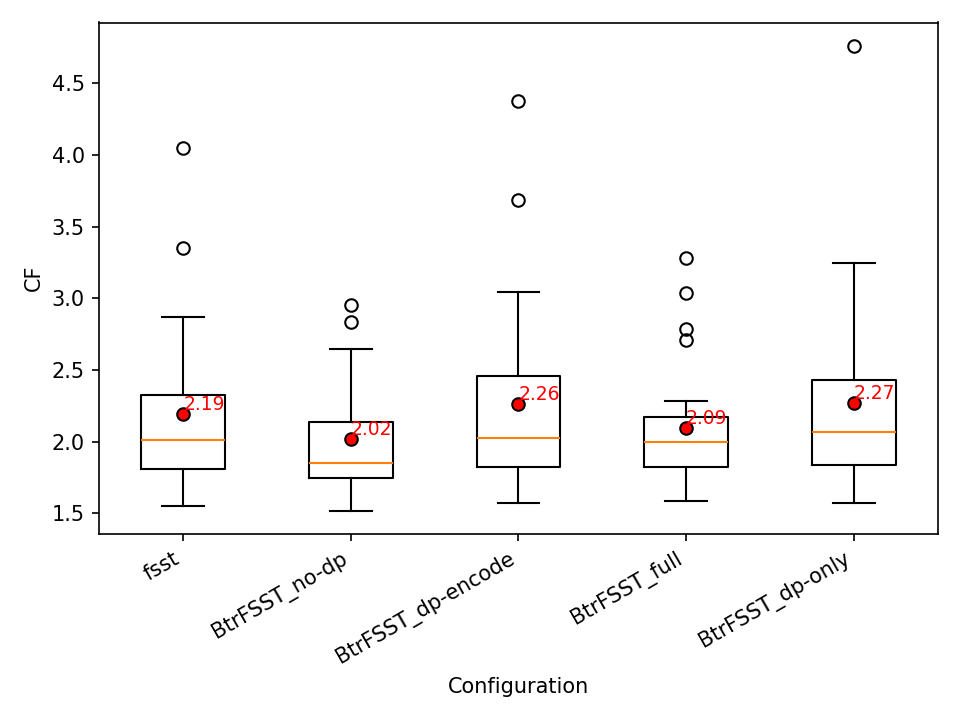
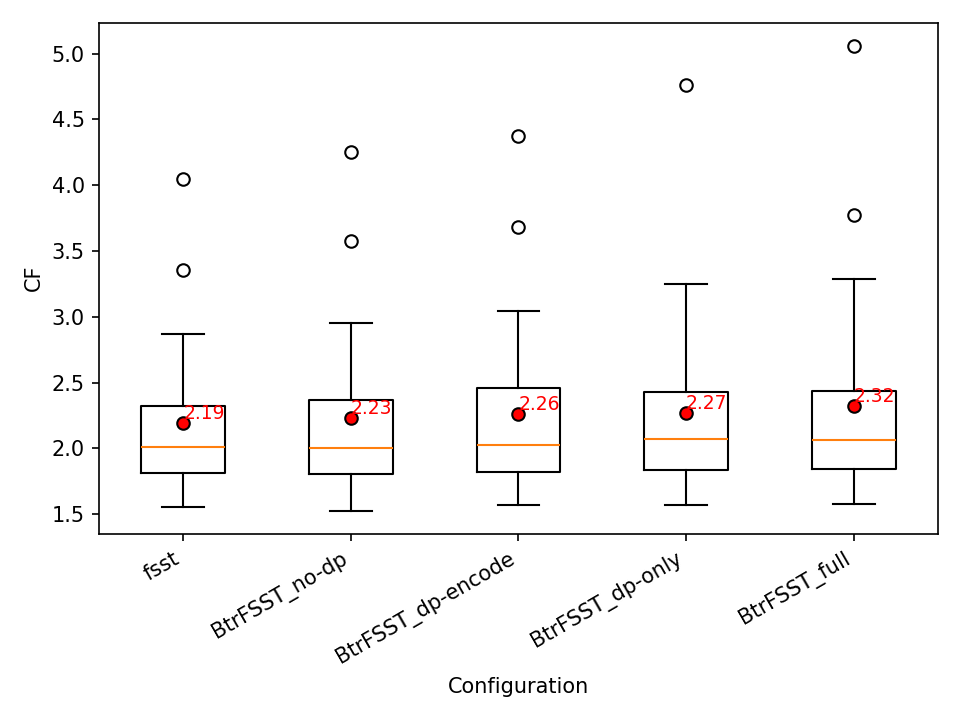
corrected triple counting, now CF is 2.32

diff --git a/libfsst.cpp b/libfsst.cpp
@@ -432,6 +432,9 @@ SymbolTable *Btrfsst_buildSymbolTable(Counters& counters,
                   counters.count2Inc(code, cur[pos]);
             }
 
+            prev2 = prev1;
+            prev1 = code;
+            
             // triples
             if (sampleFrac < 128 && (opt.flags & FSST_OPT_TRIPLES)) {
                if (prev2 != 0xFFFF) {
@@ -444,8 +447,6 @@ SymbolTable *Btrfsst_buildSymbolTable(Counters& counters,
                }
             }
 
-            prev2 = prev1;
-            prev1 = code;
          }
       }
       return gain;
@@ -543,9 +544,9 @@ SymbolTable *Btrfsst_buildSymbolTable(Counters& counters,
       }
 
       // build next table
-      bool first = true;
       st->clear();
-      unordered_set<QSymbol> seen;
+      unordered_set<u64> seen;
+      //bool first = true;
       while (st->nSymbols < 255 && !heap.empty()) {
          Cand cd = heap.top();
          heap.pop();
@@ -556,7 +557,6 @@ SymbolTable *Btrfsst_buildSymbolTable(Counters& counters,
          else if (cd.c == 0xFFFF) curCnt = c2[cd.a][cd.b];
          else curCnt = (int) count3.get(cd.a, cd.b, cd.c);
          
-         if (curCnt <= 0) continue;
          
          //check if this candidate is deleted (ie. count is outdated)
          if (curCnt != cd.cnt) {
@@ -565,6 +565,7 @@ SymbolTable *Btrfsst_buildSymbolTable(Counters& counters,
 
          // materialize symbol
          Symbol s;
+         u32 len;
          if (cd.b == 0xFFFF) {
             s = prevSym[cd.a];
          } else if (cd.c == 0xFFFF) {
@@ -574,25 +575,23 @@ SymbolTable *Btrfsst_buildSymbolTable(Counters& counters,
             Symbol ab = concat(prevSym[cd.a], prevSym[cd.b]);
             s = concat(ab, prevSym[cd.c]);
          }
-         if(first) {
-            assert(s.val.str[0] == st->terminator && s.length() == 1);
+         len = s.length();
+         /*if(first) {
+            assert(s.val.str[0] == st->terminator && len == 1);
             first = false;
-         }
+         }*/
          // insert (hash collisions possible; skip if so)
          if( (opt.flags & FSST_OPT_DP_TRAIN) && (opt.flags & FSST_OPT_DP_ENCODE) ) { // don't use fsst hashing
-            QSymbol q; 
-            u32 len = cd.symLen;
-            q.symbol = s;
-            q.gain = len; // length is sufficient to declare equality
-            if(seen.find(q) != seen.end()) continue;
-            seen.insert(q);
+            u64 num = s.load_num();
+            if(seen.find(num) != seen.end()) continue;
+            seen.insert(num);
             // add symbol to st
             s.set_code_len(FSST_CODE_BASE + st->nSymbols, len);
             st->symbols[FSST_CODE_BASE + st->nSymbols++] = s;
             st->lenHisto[len-1]++;
          }
          else if (!st->add(s)) continue;
-
+         
          // pruning: reduce counts for parts used
          if ((opt.flags & FSST_OPT_PRUNE) && cd.b != 0xFFFF) {
             int used = curCnt;

diff --git a/benchmarking/runner.cpp b/benchmarking/runner.cpp
@@ -94,8 +94,8 @@ int main() {
         {"fsst", ""},
         {"BtrFSST_no-dp", "--dp-train --prune --triples"},
         {"BtrFSST_dp-encode", "--dp-encode"},
-        {"BtrFSST_full", "--dp-train --dp-encode --prune --triples"},
-        {"BtrFSST_dp-only", "--dp-train --dp-encode"}
+        {"BtrFSST_dp-only", "--dp-train --dp-encode"},
+        {"BtrFSST_full", "--dp-train --dp-encode --prune --triples"}
     };
 
     // Output CSV path

diff --git a/fsst.cpp b/fsst.cpp
@@ -110,6 +110,7 @@ void writer(ofstream& dst) {
 }
 
 int main(int argc, char* argv[]) {
+   assert(false);
    size_t srcTot = 0, dstTot = 0;
    fsst_options_t opt = {0};
    auto isFlag = [](const char* s, const char* f){ return strcmp(s,f)==0; };
